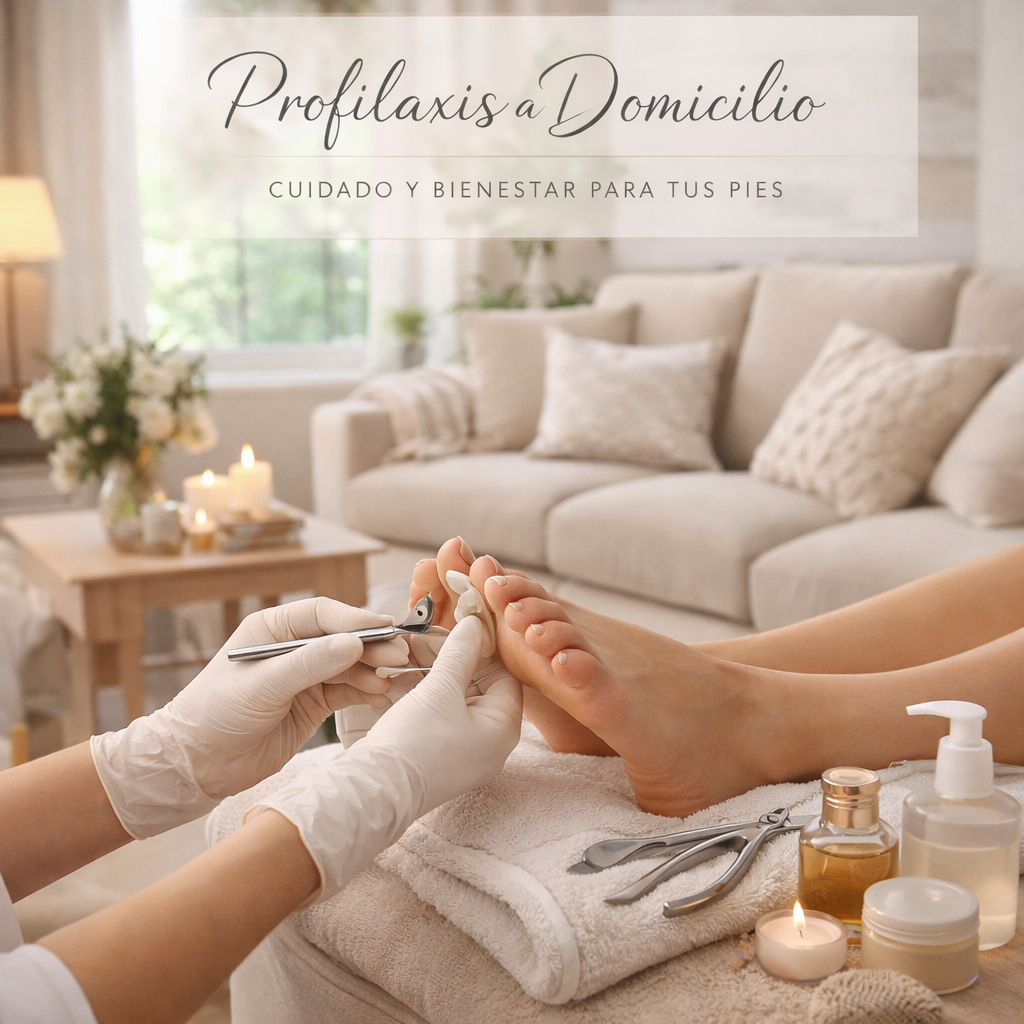
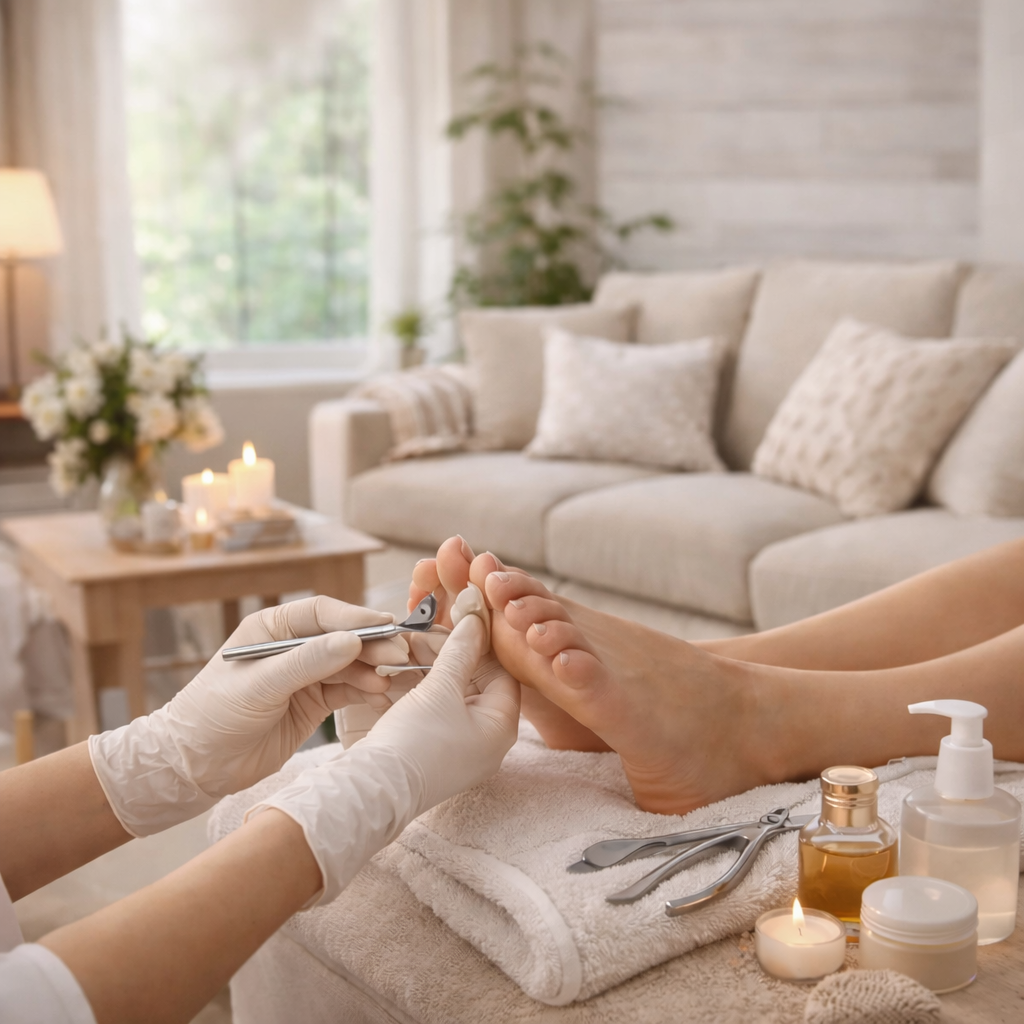
feat: update service category images for podiatry services to reflect new assets

diff --git a/src/data/service-categories.ts b/src/data/service-categories.ts
@@ -38,7 +38,7 @@ export const serviceCategories: ServiceCategory[] = [
     services: [
       {
         name: "Profilaxis",
-        image: encodeURI("/services/podologia/Profilaxis-podologia.png"),
+        image: encodeURI("/services/podologia/foot-profilaxis.png"),
         description:
           "Limpieza y cuidado preventivo para mantener los pies sanos y libres de durezas.",
       },
@@ -50,31 +50,31 @@ export const serviceCategories: ServiceCategory[] = [
       },
       {
         name: "Extracción de uñero",
-        image: encodeURI("/services/podologia/Extraccióndeunero.png"),
+        image: encodeURI("/services/podologia/extraccion-uneros.png"),
         description:
           "Procedimiento podológico para aliviar el dolor causado por una uña encarnada y prevenir infecciones.",
       },
       {
         name: "Reflexología podal",
-        image: encodeURI("/services/podologia/Reflexología podal.png"),
+        image: encodeURI("/services/podologia/Reflexologia-podal.png"),
         description:
           "Masaje terapéutico que estimula puntos del pie para promover bienestar y relajación.",
       },
       {
         name: "Sesión de alta frecuencia",
-        image: encodeURI("/services/podologia/altafrecuencia.png"),
+        image: encodeURI("/services/podologia/alta-frecuencia.png"),
         description:
           "Tratamiento que ayuda a eliminar hongos, desinfectar y mejorar la salud de la piel y las uñas.",
       },
       {
         name: "Tratamiento químico para hongos",
-        image: encodeURI("/services/podologia/tratamientohongos.png"),
+        image: encodeURI("/services/podologia/quimica-pies.png"),
         description:
           "Tratamiento aplicado directamente en la uña para hongos muy avanzados.",
       },
       {
         name: "Desintoxicación iónica",
-        image: encodeURI("/services/podologia/Desintoxicación-ionica.png"),
+        image: encodeURI("/services/podologia/Desintoxicacion-ionica.png"),
         description:
           "Terapia que ayuda a eliminar toxinas y mejorar el bienestar general.",
       },
